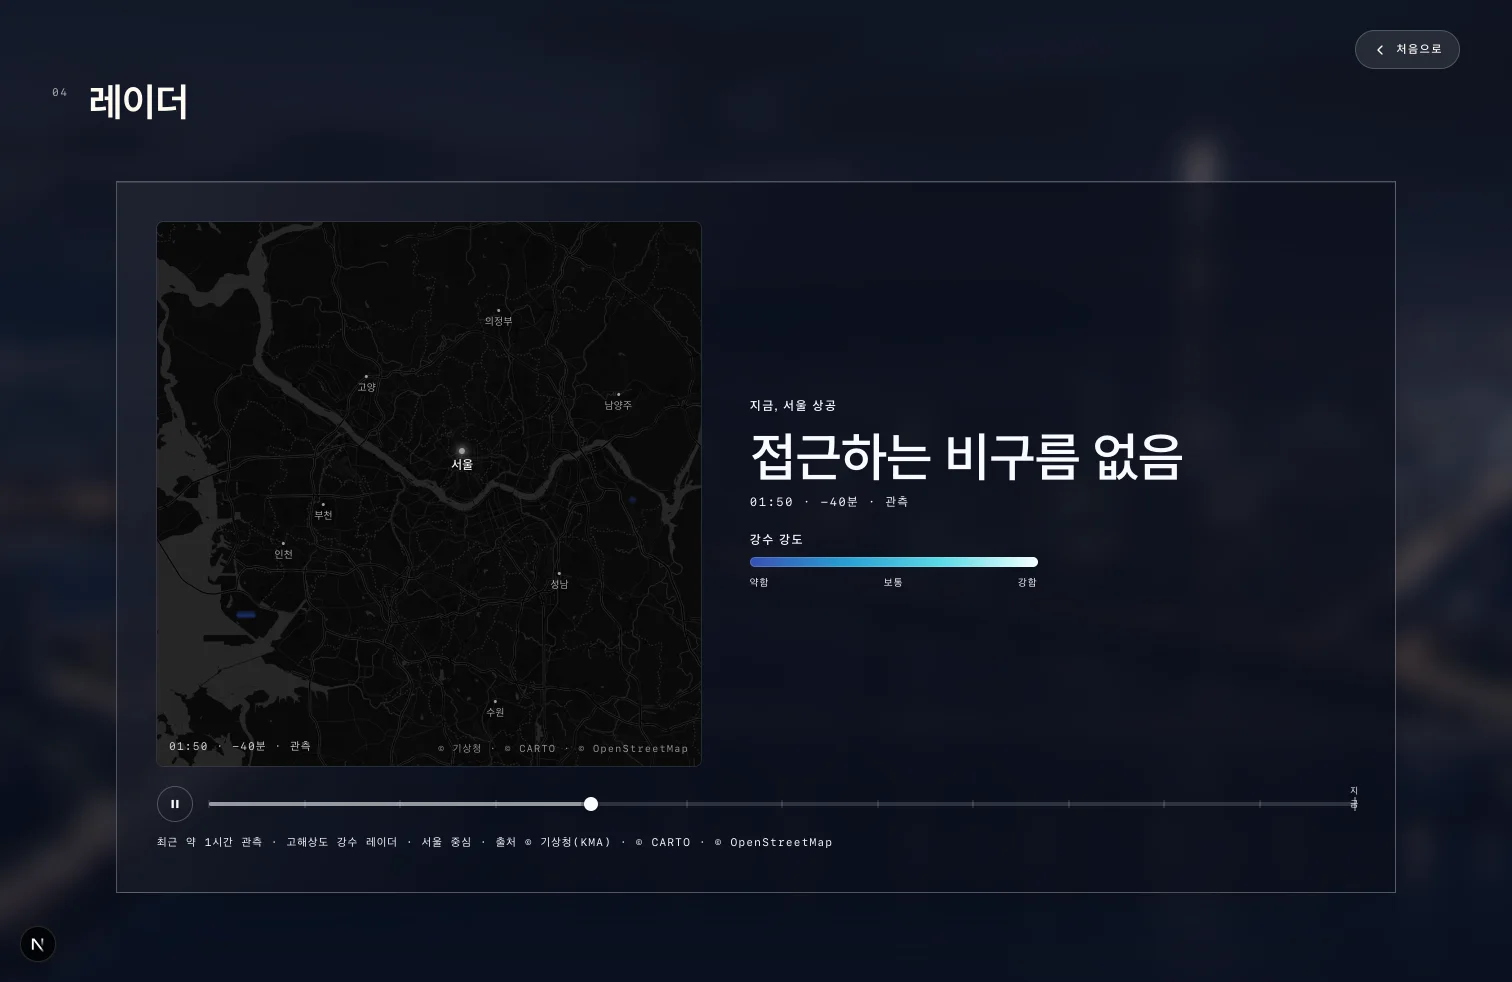
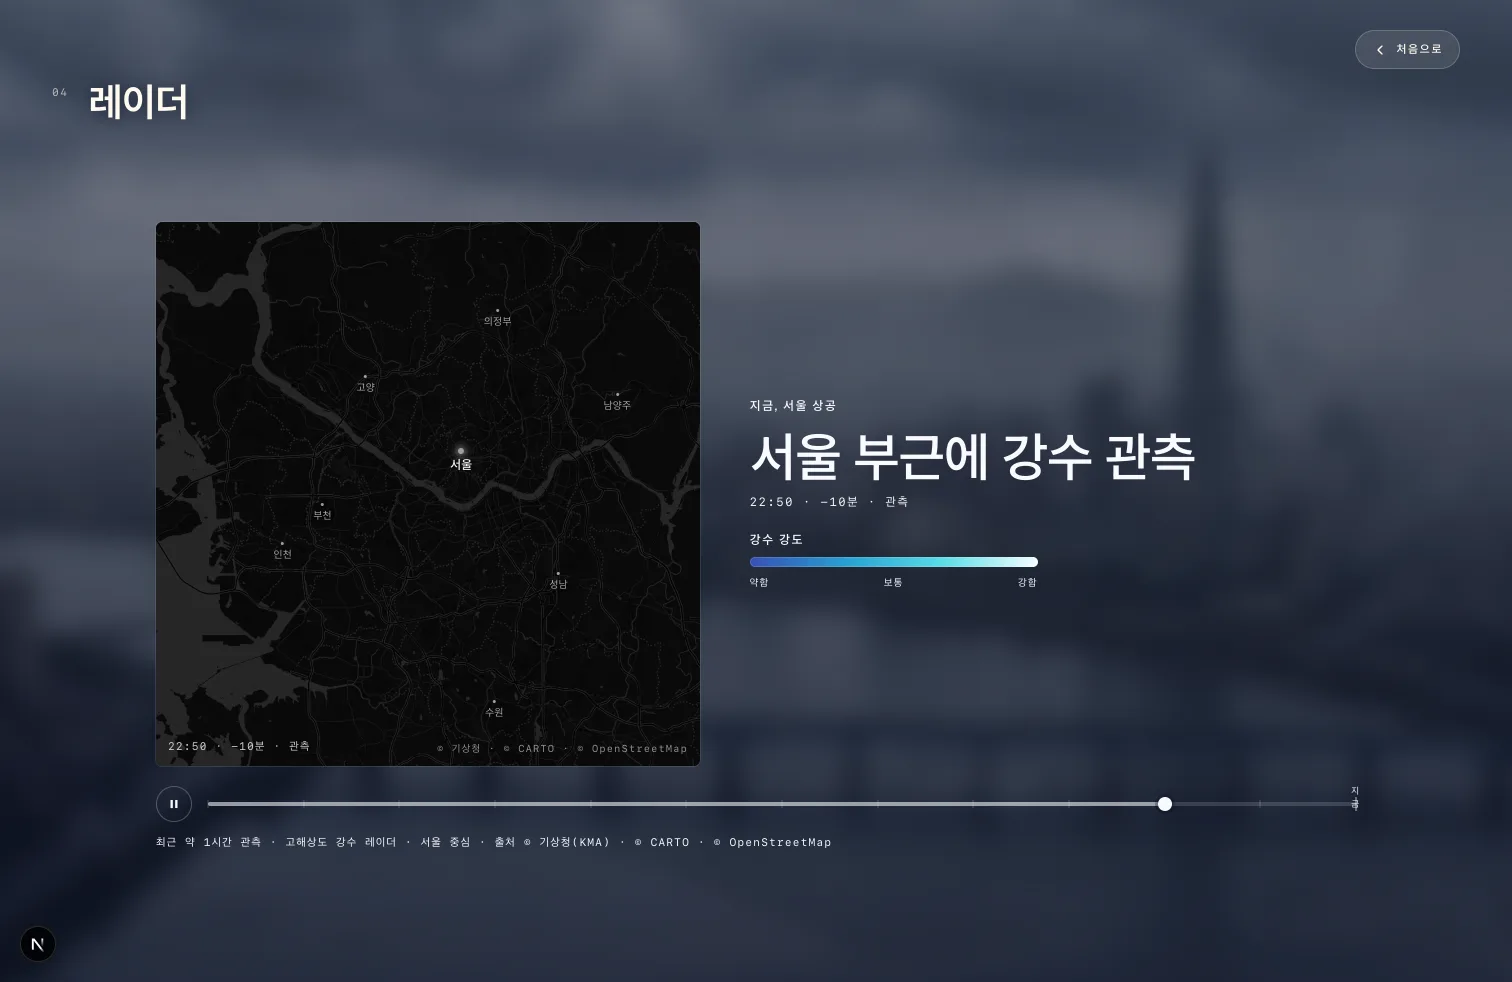
docs: refresh radar/confidence screenshots for frameless surfaces
Recapture the three data-deck screenshots that changed when the panel frames
were removed (radar, confidence summary, advanced source comparison) — now
showing frameless surfaces etched over the scene, with live KMA radar and
provider data. Also fix two docstrings that still described a 'framed surface'
with a 'bright rim' / 'matte panels' that no longer exist.

diff --git a/components/atmosphere/glass/GlassPanel.tsx b/components/atmosphere/glass/GlassPanel.tsx
@@ -3,13 +3,13 @@
 import type { ReactNode } from "react";
 
 /**
- * The single framed surface used across the /sky HUD. It stays fully transparent
- * and uses a bright rim plus adaptive ink to remain readable over the cinematic
- * scene. The `--sky-panel-*` variables on `.sky-foreground` flip the ink and edge
- * contrast with the backdrop and re-scope `--color-white` so descendants follow.
+ * A frameless reading surface used across the /sky HUD. It has no fill, border or
+ * shadow — content sits etched directly over the cinematic scene, matching the
+ * other data sections. Its remaining job is to re-scope `--color-white` to the
+ * adaptive `--sky-panel-ink` (via `.sky-panel` in globals.css) so descendant text
+ * and glyphs flip legibly with the backdrop.
  *
- * The name and prop API are unchanged so every call site keeps working as-is; the
- * day/night response is entirely in the `.sky-panel` material (see globals.css).
+ * The name and prop API are unchanged so every call site keeps working as-is.
  *
  * Radius: with no `radius` prop the panel inherits the capsule `--sky-panel-radius`
  * token; pass a Tailwind radius class to override it per card.

diff --git a/components/atmosphere/sections/GroundStationSection.tsx b/components/atmosphere/sections/GroundStationSection.tsx
@@ -18,7 +18,7 @@ import { SectionHeading, SkySection } from "./SectionParts";
  * Section 5 — Ground Station. The data deck where the scroll lands: cross-provider
  * confidence, the source comparison, and the environment sources (air + radar,
  * with the required RainViewer attribution) — all
- * re-skinned into the matte reading panels, all the original data/logic preserved.
+ * re-skinned into frameless etched readouts, all the original data/logic preserved.
  *
  * PERF: the heavier /api/weather intelligence fetch is deferred until this final
  * section is approaching (useInView, ~400px early) and refreshed every 5 min; the